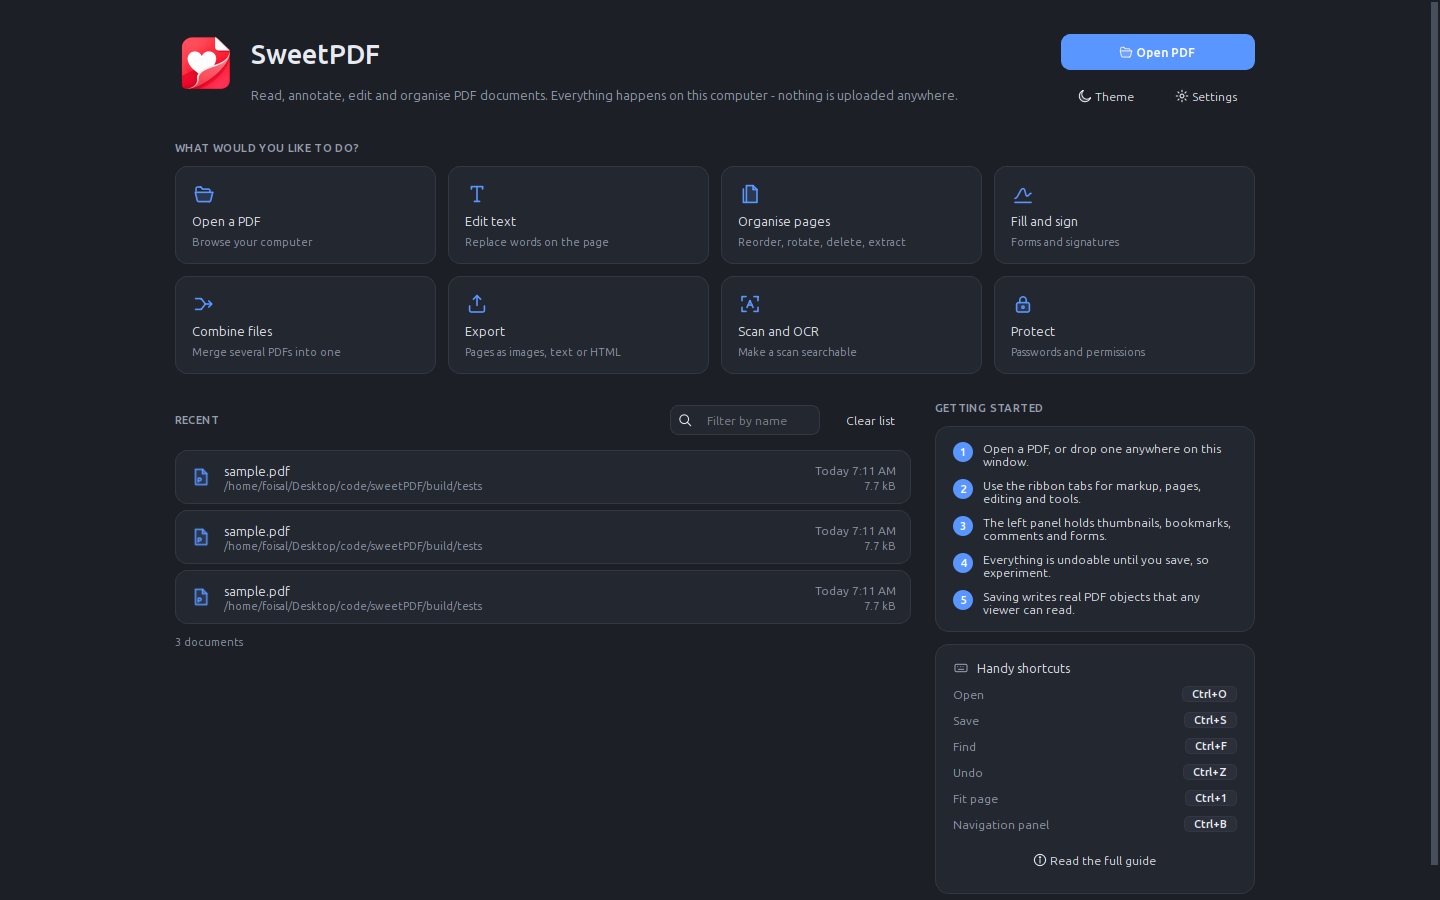
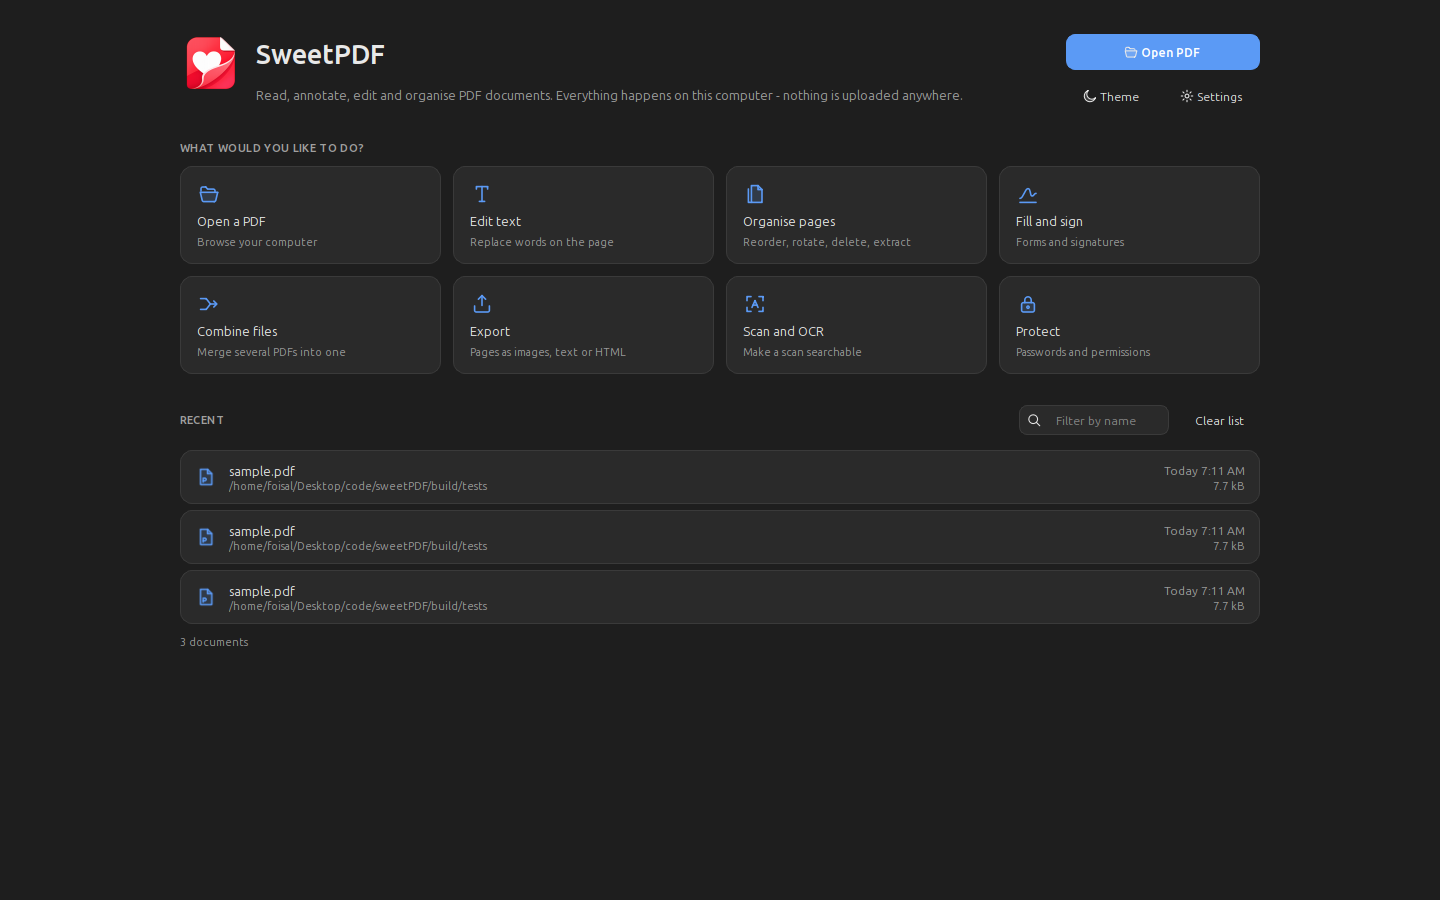
Refactor WelcomeView to streamline layout and remove guide section
- Removed the guide section and associated elements from the WelcomeView to simplify the UI.
- Adjusted layout management to accommodate the removal of the guide, enhancing the focus on task tiles and recent files.
- Updated README.md to reflect changes in the home screen description.
- Replaced home screen screenshots to align with the latest design updates.

diff --git a/src/ui/window/WelcomeView.cpp b/src/ui/window/WelcomeView.cpp
@@ -3,7 +3,6 @@
 #include "ui/theme/Theme.h"
 
 #include <QApplication>
-#include <QBoxLayout>
 #include <QClipboard>
 #include <QDateTime>
 #include <QDesktopServices>
@@ -29,7 +28,6 @@ namespace sweet::ui {
 namespace {
 
 constexpr int contentWidthCap = 1080;
-constexpr int guideWidth = 320;
 constexpr int recentLimit = 12;
 constexpr int defaultTileColumns = 4;
 
@@ -114,31 +112,6 @@ const Task tasks[] = {
       QT_TRANSLATE_NOOP("WelcomeView", "Make a scan searchable") },
     { "encrypt", "lock", QT_TRANSLATE_NOOP("WelcomeView", "Protect"),
       QT_TRANSLATE_NOOP("WelcomeView", "Passwords and permissions") },
-};
-
-/// First steps, one line each so the card stays scannable.
-const char *const steps[] = {
-    QT_TRANSLATE_NOOP("WelcomeView", "Open a PDF, or drop one anywhere on this window."),
-    QT_TRANSLATE_NOOP("WelcomeView", "Use the ribbon tabs for markup, pages, editing and tools."),
-    QT_TRANSLATE_NOOP("WelcomeView",
-                      "The left panel holds thumbnails, bookmarks, comments and forms."),
-    QT_TRANSLATE_NOOP("WelcomeView", "Everything is undoable until you save, so experiment."),
-    QT_TRANSLATE_NOOP("WelcomeView", "Saving writes real PDF objects that any viewer can read."),
-};
-
-struct Shortcut
-{
-    const char *what;
-    const char *keys;
-};
-
-const Shortcut shortcuts[] = {
-    { QT_TRANSLATE_NOOP("WelcomeView", "Open"), "Ctrl+O" },
-    { QT_TRANSLATE_NOOP("WelcomeView", "Save"), "Ctrl+S" },
-    { QT_TRANSLATE_NOOP("WelcomeView", "Find"), "Ctrl+F" },
-    { QT_TRANSLATE_NOOP("WelcomeView", "Undo"), "Ctrl+Z" },
-    { QT_TRANSLATE_NOOP("WelcomeView", "Fit page"), "Ctrl+1" },
-    { QT_TRANSLATE_NOOP("WelcomeView", "Navigation panel"), "Ctrl+B" },
 };
 
 QLabel *makeLabel(const QString &text, TextRole role, Ink ink, QWidget *parent)
@@ -236,13 +209,7 @@ WelcomeView::WelcomeView(QWidget *parent)
 
     buildHeader(layout);
     buildTiles(layout);
-
-    m_lower = new QBoxLayout(QBoxLayout::LeftToRight);
-    m_lower->setSpacing(24);
-    m_lower->addWidget(buildRecentSection(), 1);
-    m_guide = buildGuideSection();
-    m_lower->addWidget(m_guide, 0, Qt::AlignTop);
-    layout->addLayout(m_lower, 1);
+    layout->addWidget(buildRecentSection(), 1);
     layout->addStretch(1);
 
     connect(&Theme::instance(), &Theme::changed, this, &WelcomeView::retint);
@@ -257,7 +224,7 @@ void WelcomeView::resizeEvent(QResizeEvent *event)
 
 void WelcomeView::relayout()
 {
-    if (!m_column || !m_lower || !m_guide || !m_tileGrid)
+    if (!m_column || !m_tileGrid)
         return;
 
     constexpr int sideMargins = 80;
@@ -270,15 +237,6 @@ void WelcomeView::relayout()
     else if (available < 1000)
         columns = 2;
     placeTiles(columns);
-
-    if (available < 1000) {
-        m_lower->setDirection(QBoxLayout::TopToBottom);
-        m_guide->setMinimumWidth(0);
-        m_guide->setMaximumWidth(QWIDGETSIZE_MAX);
-    } else {
-        m_lower->setDirection(QBoxLayout::LeftToRight);
-        m_guide->setFixedWidth(guideWidth);
-    }
 }
 
 void WelcomeView::placeTiles(int columns)
@@ -472,78 +430,6 @@ QWidget *WelcomeView::buildRecentSection()
     layout->addStretch(1);
 
     rebuildRecentRows();
-    return section;
-}
-
-QWidget *WelcomeView::buildGuideSection()
-{
-    auto *section = new QWidget(this);
-    section->setFixedWidth(guideWidth);
-    auto *layout = new QVBoxLayout(section);
-    layout->setContentsMargins(0, 0, 0, 0);
-    layout->setSpacing(12);
-    layout->addWidget(makeSectionLabel(tr("Getting started"), section));
-
-    auto *stepsCard = new QWidget(section);
-    stepsCard->setObjectName(QStringLiteral("WelcomePanel"));
-    stepsCard->setAttribute(Qt::WA_StyledBackground, true);
-    auto *stepLayout = new QVBoxLayout(stepsCard);
-    stepLayout->setContentsMargins(18, 16, 18, 16);
-    stepLayout->setSpacing(11);
-
-    int number = 1;
-    for (const char *step : steps) {
-        auto *row = new QHBoxLayout;
-        row->setSpacing(10);
-
-        auto *badge = makeLabel(QString::number(number++), TextRole::Caption, Ink::Inverted,
-                                stepsCard);
-        badge->setObjectName(QStringLiteral("StepBadge"));
-        badge->setAlignment(Qt::AlignCenter);
-        badge->setFixedSize(20, 20);
-        row->addWidget(badge, 0, Qt::AlignTop);
-
-        auto *text = makeLabel(tr(step), TextRole::Small, Ink::Text, stepsCard);
-        text->setWordWrap(true);
-        row->addWidget(text, 1);
-        stepLayout->addLayout(row);
-    }
-    layout->addWidget(stepsCard);
-
-    auto *keys = new QWidget(section);
-    keys->setObjectName(QStringLiteral("WelcomePanel"));
-    keys->setAttribute(Qt::WA_StyledBackground, true);
-    auto *keyLayout = new QVBoxLayout(keys);
-    keyLayout->setContentsMargins(18, 16, 18, 16);
-    keyLayout->setSpacing(10);
-
-    auto *keyHeader = new QHBoxLayout;
-    keyHeader->setSpacing(8);
-    keyHeader->addWidget(makeGlyph(QStringLiteral("keyboard"), Ink::Muted, 16, keys));
-    keyHeader->addWidget(makeLabel(tr("Handy shortcuts"), TextRole::Body, Ink::Text, keys), 1);
-    keyLayout->addLayout(keyHeader);
-
-    for (const Shortcut &shortcut : shortcuts) {
-        auto *row = new QHBoxLayout;
-        row->addWidget(makeLabel(tr(shortcut.what), TextRole::Small, Ink::Muted, keys), 1);
-
-        auto *chip = makeLabel(QString::fromLatin1(shortcut.keys), TextRole::Caption, Ink::Text,
-                               keys);
-        chip->setObjectName(QStringLiteral("KeyChip"));
-        row->addWidget(chip, 0, Qt::AlignRight);
-        keyLayout->addLayout(row);
-    }
-
-    auto *guide = new QPushButton(icon(QStringLiteral("info")), tr("Read the full guide"), keys);
-    guide->setProperty("flat", true);
-    connect(guide, &QPushButton::clicked, this, [] {
-        QDesktopServices::openUrl(
-            QUrl(QStringLiteral("https://github.com/sweetpdf/sweetpdf#readme")));
-    });
-    keyLayout->addWidget(guide);
-
-    layout->addWidget(keys);
-    layout->addStretch(1);
     return section;
 }
 

diff --git a/src/ui/window/WelcomeView.h b/src/ui/window/WelcomeView.h
@@ -3,7 +3,6 @@
 #include <QStringList>
 #include <QWidget>
 
-class QBoxLayout;
 class QGridLayout;
 class QLabel;
 class QLineEdit;
@@ -16,9 +15,8 @@ namespace sweet::ui {
 ///
 /// Modelled on what desktop PDF suites put on their start page, because that is
 /// what someone arriving here expects: pick a task, or pick up a file you had
-/// open before. It is four blocks - a header with the primary action, a grid of
-/// task tiles, the recent-files list (which doubles as the drop target), and a
-/// short guide so a first-time user is never left guessing.
+/// open before. Three blocks - a header with the primary action, a grid of task
+/// tiles, and the recent-files list (which doubles as the drop target).
 ///
 /// MainWindow hides the ribbon and the side panels while this is showing: none of
 /// that chrome does anything without a document, and hiding it leaves the home
@@ -57,7 +55,6 @@ private:
     void buildHeader(QVBoxLayout *column);
     void buildTiles(QVBoxLayout *column);
     QWidget *buildRecentSection();
-    QWidget *buildGuideSection();
     void rebuildRecentRows();
     void relayout();
     void placeTiles(int columns);
@@ -67,8 +64,6 @@ private:
     void retint();
 
     QWidget *m_column = nullptr;
-    QBoxLayout *m_lower = nullptr;
-    QWidget *m_guide = nullptr;
     QGridLayout *m_tileGrid = nullptr;
     QLineEdit *m_filter = nullptr;
     QWidget *m_recentRows = nullptr;

diff --git a/README.md b/README.md
@@ -91,7 +91,7 @@ program is to open a copy of something and try the tools.
 
 | Part                                   | What it is for                                                                                                                                                                     |
 | -------------------------------------- | ---------------------------------------------------------------------------------------------------------------------------------------------------------------------------------- |
-| **Home screen**                        | Shown when no document is open: task tiles, recent files, and this guide in short form. The ribbon and panels are hidden here because they cannot do anything yet.                 |
+| **Home screen**                        | Shown when no document is open: task tiles and recent files. The ribbon and panels are hidden here because they cannot do anything yet.                 |
 | **Ribbon**                             | Commands grouped by job: *Home*, *Edit*, *Comment*, *Page*, *View*, *Protect*, *Tools*. The *Menu* button on the left holds the file commands, recent files, preferences and help. |
 | **Navigation panel** (left, `Ctrl+B`)  | Six panels: *Pages* (thumbnails), *Marks* (bookmarks), *Notes* (comments), *Forms*, *Files* (attachments) and *Layers*.                                                            |
 | **Page canvas**                        | The document. A small floating bar carries the select and pan tools, zoom, and the page layout modes.                                                                              |
